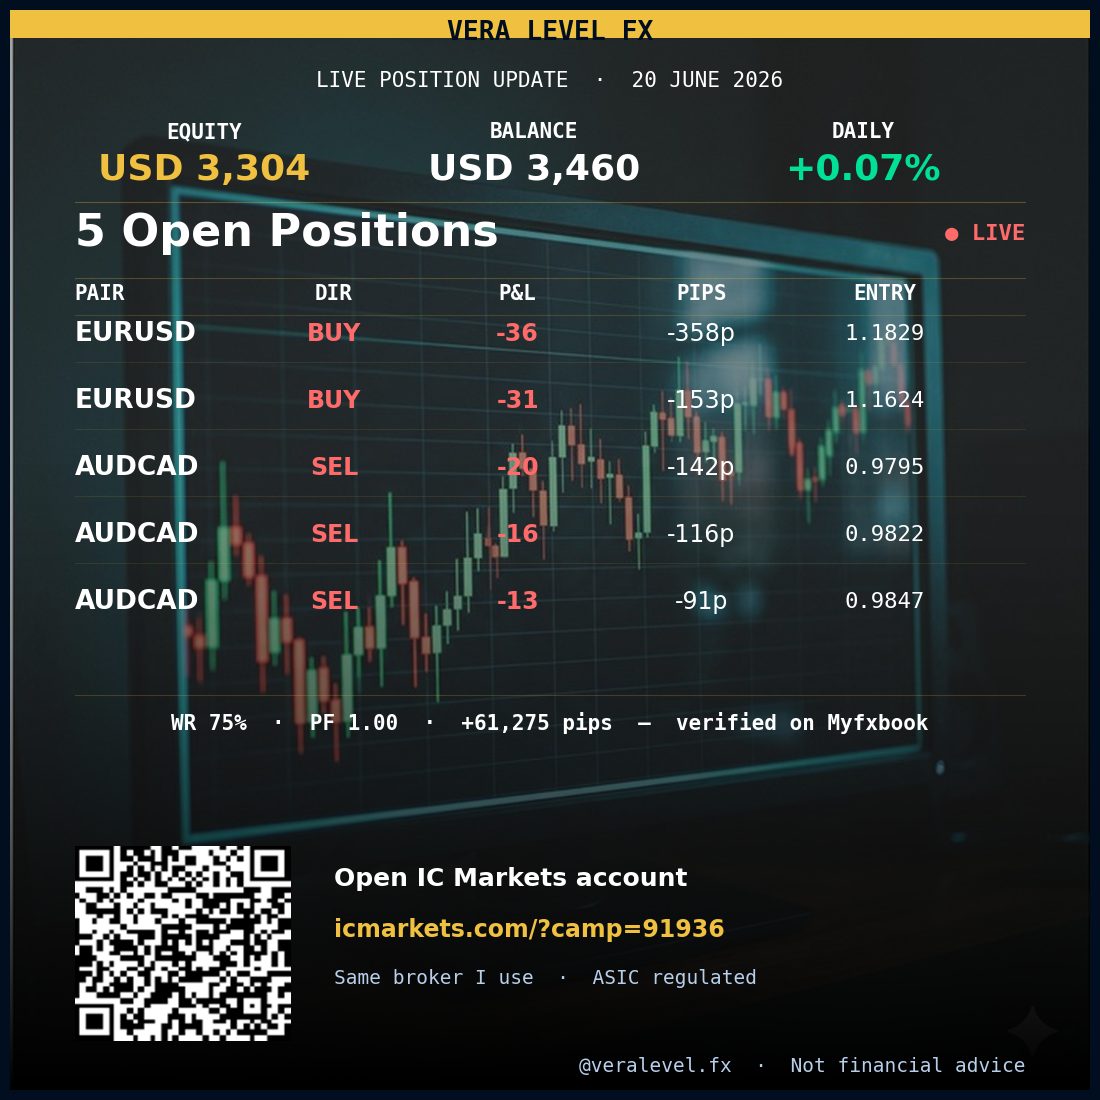
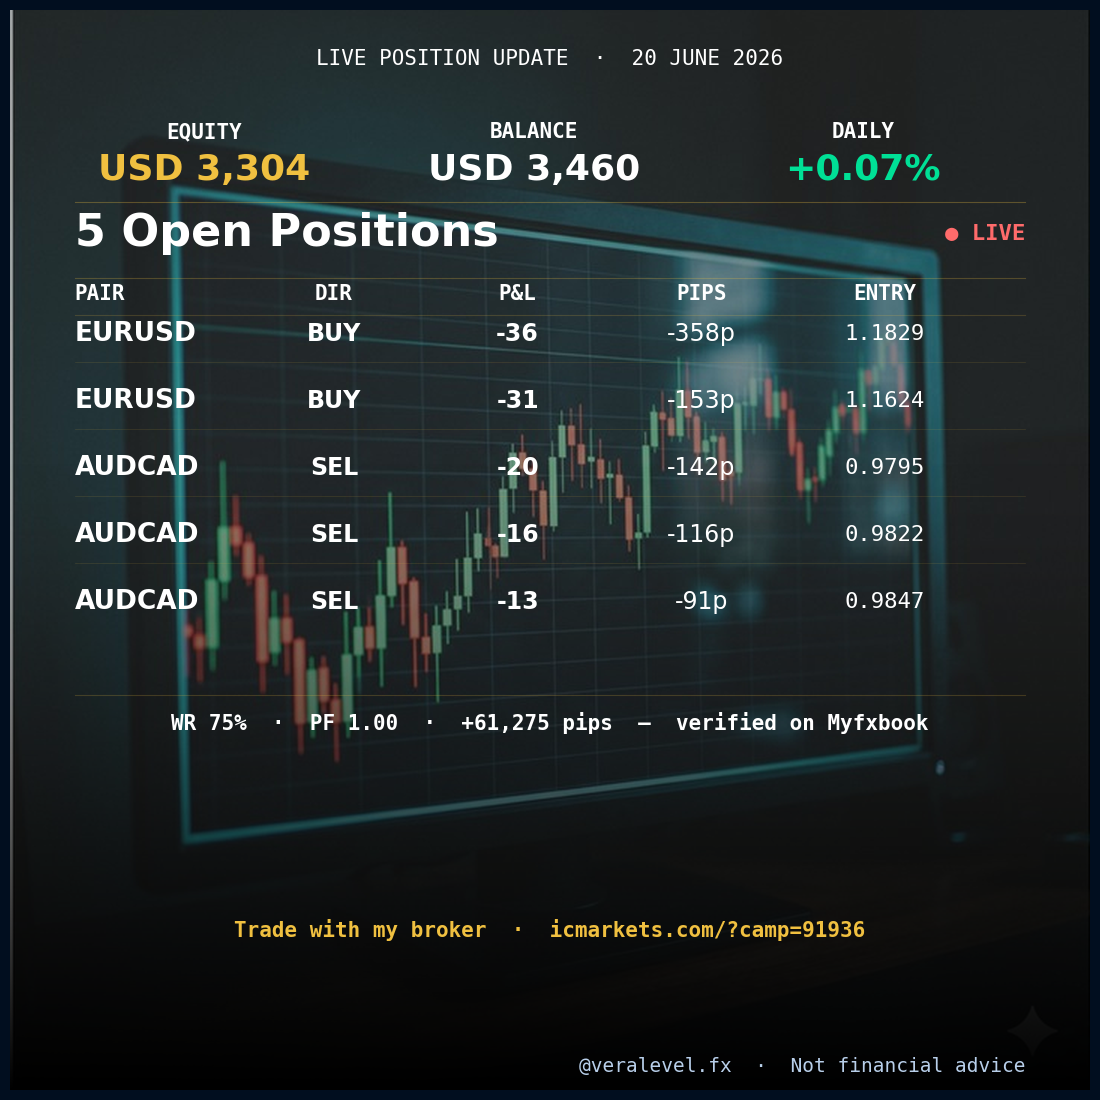
design: daily card — remove gold top bar, white DIR/P&L, clean CTA
- Remove VERA LEVEL FX gold top bar from daily card
- Change DIR and P&L columns from green/red to white
- Remove embedded QR code block from daily card layout
- Replace QR section with single centered IB referral CTA line
- Restore overlay_qr() for daily posts in run.py

diff --git a/instagram/generate_status.py b/instagram/generate_status.py
@@ -103,16 +103,7 @@ def make_daily_card(data: dict):
 
     d_color = GREEN if daily_pct >= 0 else RED
 
-    # Gold top bar with branding
-    ax.add_patch(patches.Rectangle(
-        (0, 0.974), 1, 0.040, facecolor=GOLD, transform=ax.transAxes, zorder=5
-    ))
-    ax.text(0.5, 0.979, 'VERA LEVEL FX',
-            fontsize=19, fontweight='bold', color=NAVY,
-            ha='center', va='center',
-            transform=ax.transAxes, fontfamily='monospace', zorder=6)
-
-    ax.text(0.5, 0.934,
+    ax.text(0.5, 0.955,
             'LIVE POSITION UPDATE  ·  ' + datetime.now().strftime('%d %B %Y').upper(),
             fontsize=15, color=WHITE, ha='center', va='center',
             transform=ax.transAxes, fontfamily='monospace', zorder=6)
@@ -174,8 +165,8 @@ def make_daily_card(data: dict):
             p_color = GREEN if profit >= 0 else RED
 
             ax.text(col_x['pair'],  ry, pair,              fontsize=19, fontweight='bold', color=WHITE,   ha='left',   va='center', transform=ax.transAxes, zorder=6)
-            ax.text(col_x['dir'],   ry, action[:3],        fontsize=17, fontweight='bold', color=p_color, ha='center', va='center', transform=ax.transAxes, zorder=6)
-            ax.text(col_x['pnl'],   ry, f'{profit:+.0f}',  fontsize=17, fontweight='bold', color=p_color, ha='center', va='center', transform=ax.transAxes, zorder=6)
+            ax.text(col_x['dir'],   ry, action[:3],        fontsize=17, fontweight='bold', color=WHITE,   ha='center', va='center', transform=ax.transAxes, zorder=6)
+            ax.text(col_x['pnl'],   ry, f'{profit:+.0f}',  fontsize=17, fontweight='bold', color=WHITE,   ha='center', va='center', transform=ax.transAxes, zorder=6)
             ax.text(col_x['pips'],  ry, _fmt_pips(t_pips), fontsize=17, color=WHITE,       ha='center', va='center', transform=ax.transAxes, zorder=6)
             ax.text(col_x['entry'], ry, _fmt_price(entry), fontsize=16, color=WHITE,        ha='center', va='center', transform=ax.transAxes, fontfamily='monospace', zorder=6)
             if r < len(rows) - 1:
@@ -196,24 +187,11 @@ def make_daily_card(data: dict):
             fontsize=15, fontweight='bold', color=WHITE, ha='center', va='center',
             transform=ax.transAxes, fontfamily='monospace', zorder=6)
 
-    # QR code — IC Markets IB referral
-    qr_path = Path(__file__).parent / 'assets' / 'qr-icmarkets.jpg'
-    if qr_path.exists():
-        qr_img = __import__('PIL.Image', fromlist=['Image']).open(qr_path).convert('RGB')
-        qr_img = qr_img.resize((220, 220))
-        qr_arr = np.array(qr_img, dtype=np.float32) / 255.0
-        # square extent: 0.20 wide = 216px, 0.20 tall = 216px
-        ax.imshow(qr_arr, extent=[0.06, 0.26, 0.045, 0.225], aspect='auto', zorder=7)
-
-    ax.text(0.30, 0.195, 'Open IC Markets account',
-            fontsize=18, fontweight='bold', color=WHITE,
-            ha='left', va='center', transform=ax.transAxes, zorder=7)
-    ax.text(0.30, 0.148, 'icmarkets.com/?camp=91936',
-            fontsize=17, fontweight='bold', color=GOLD,
-            ha='left', va='center', transform=ax.transAxes, zorder=7)
-    ax.text(0.30, 0.103, 'Same broker I use  ·  ASIC regulated',
-            fontsize=14, color=MUTED, ha='left', va='center',
-            transform=ax.transAxes, fontfamily='monospace', zorder=7)
+    # CTA
+    ax.text(0.5, 0.148, 'Trade with my broker  ·  icmarkets.com/?camp=91936',
+            fontsize=15, fontweight='bold', color=GOLD,
+            ha='center', va='center', transform=ax.transAxes,
+            fontfamily='monospace', zorder=6)
 
     # Footer
     ax.text(0.94, 0.022, '@veralevel.fx  ·  Not financial advice',

diff --git a/instagram/run.py b/instagram/run.py
@@ -237,9 +237,7 @@ def main():
         image_path = save_image(fig, post_type)
         plt.close('all')
     print(f'  saved: {image_path}')
-    # daily card has QR embedded in the design — skip the corner stamp
-    if post_type != 'daily':
-        overlay_qr(image_path)
+    overlay_qr(image_path)
 
     image_url = commit_and_push(image_path)
     print(f'  url:   {image_url}')
